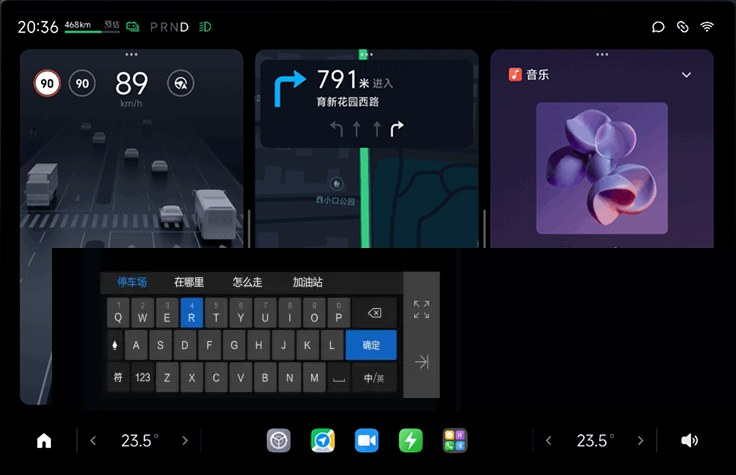
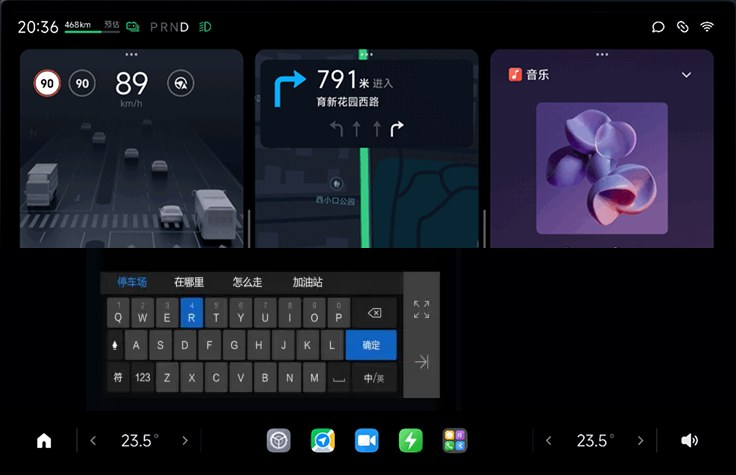
Swap two keyboard pictures, and say where every picture comes from (#36)
Yidan's two replacements. The three-height comparison is a tighter
capture than the wide one it replaces, and the keyboard she started
from is now the centred version with the candidate row, which is the
one she wanted shown.

A note near the top of the page says what all of it is: nothing here
is internal Xiaomi material, the photographs are Xiaomi's own
published images of the car, and everything else is a diagram she
drew to show how she worked. The note inside the keyboard section
keeps only what is specific to it.

The landing shot said "Where it landed", which claimed more than it
is. It is a Figma Make test at about the size the thing ships at, and
the caption now says so.

Added a before and after at the end of the section. The before is
real; the after is a slot, because the shipped screen has to come
from the car. A second slot holds the interaction running in the car.
Both say a screenshot is to be added, and a line underneath says
Xiaomi's system update is close and she will take them then. In the
pair, the slot takes the ratio of the picture beside it so the two
captions line up.

Both replacements arrived with transparent backgrounds and are
composited onto white, which is what turned an earlier wireframe into
a black bar.

Case prose is 1,554.

Claude-Session: https://claude.ai/code/session_01A2AqwaHUmSdqfKoAZn74z6

Changed region(s): [[0.0, 0.5011, 0.0938, 0.8547]]

diff --git a/work/xiaomi-auto.html b/work/xiaomi-auto.html
@@ -48,6 +48,10 @@
       <figcaption>The cabin. Xiaomi&rsquo;s own product photograph.</figcaption>
     </figure>
 
+    <div class="withheld">
+      <p>Nothing on this page is internal Xiaomi material. The photographs are Xiaomi&rsquo;s own published images of the car. Everything else is a diagram I drew to show how I worked.</p>
+    </div>
+
     <h2>What the car is trying to be</h2>
     <p>Xiaomi builds the car closer to an extension of the home than to transport. That claim is easy to make and hard to keep, and it gets decided in the moments when nobody is driving.</p>
     <p>A nap mode on the centre screen. A rear screen that runs the seat massage. A keyboard that floats above the screen and leaves what is underneath it alone. Each one is a moment where the car stops being a vehicle, and the interface has to behave like a room.</p>
@@ -131,7 +135,7 @@
     <p>Three companies make the keyboards I had to serve: the partner already in the car, a new one for the Chinese build, and Google for the English one. Each popped up at its own height, covered its own amount of the screen, and took the layout apart in its own way. They also disagree with each other on when AI triggers, how word suggestions arrive, and what the network prompts do. The person in the car only feels that typing is inconsistent.</p>
 
     <figure class="figure">
-      <img src="../assets/images/xiaomi-auto/keyboards-three.jpg" alt="Three screens side by side, each with a different vendor's keyboard open. Each one rises to a different height and covers a different amount of what is underneath. The content is desensitised." loading="lazy">
+      <img src="../assets/images/xiaomi-auto/keyboards-three.jpg" alt="Three car screens side by side, each with a different vendor's keyboard open, each rising to a different height over what is underneath. The content is desensitised." loading="lazy">
       <figcaption>The same screen, three vendors. Each keyboard takes a different amount of it away.</figcaption>
     </figure>
 
@@ -156,13 +160,8 @@
     </figure>
 
     <div class="withheld">
-      <p>From here to the end of this section, the pictures are reconstructions I drew afterwards to show the thinking. They are neither the finished design nor internal material. The shipped screens will come from the car itself.</p>
+      <p>The pictures from here are reconstructions I drew afterwards to show the thinking.</p>
     </div>
-
-    <figure class="figure">
-      <img src="../assets/images/xiaomi-auto/kb-before.jpg" alt="A car screen with driving, navigation and music cards across the top, and a small keyboard in the lower left corner covering part of the driving card" loading="lazy">
-      <figcaption>Where I started. It sits near the left hand, which is the right instinct and the wrong result: at that size you mis-tap, there is little to reach for, and nothing precise is possible while the car is moving.</figcaption>
-    </figure>
 
     <p>Two problems, then. What proportion fits the screen the car now ships, and what to do about the functions no version is going to drop.</p>
 
@@ -194,7 +193,7 @@
 
     <figure class="figure">
       <img src="../assets/images/xiaomi-auto/kb-after.jpg" alt="The same car screen with the rebuilt keyboard: a full-width floating block with a function row along the top, letters in the middle and a separate number pad on the right, with the driving cards still visible above it" loading="lazy">
-      <figcaption>Where it landed.</figcaption>
+      <figcaption>What I settled on, tested in Figma Make at about the size it ships at.</figcaption>
     </figure>
 
     <ol class="rules">
@@ -225,6 +224,31 @@
       </svg>
       <figcaption class="figure-note">The split. The rules were the design work; the permutations were typing.</figcaption>
     </figure>
+
+    <h3>Before, and what ships</h3>
+
+    <div class="cmp">
+      <figure>
+        <img src="../assets/images/xiaomi-auto/kb-before.jpg" alt="The car screen as it was: driving, navigation and music cards across the top, and a small centred keyboard below with a candidate word row above cramped keys" loading="lazy">
+        <figcaption><b>Before.</b> Hard to hit, hard to look at, and nothing precise is possible while the car is moving.</figcaption>
+      </figure>
+      <figure>
+        <div class="slot" data-slot="kb-shipped">
+          <span class="slot__k">Screenshot to be added</span>
+          <p class="slot__d">The keyboard as it ships, photographed from the car.</p>
+        </div>
+        <figcaption><b>After.</b> From the car itself.</figcaption>
+      </figure>
+    </div>
+
+    <figure class="figure">
+      <div class="slot slot--wide" data-slot="kb-in-use">
+        <span class="slot__k">Screenshot to be added</span>
+        <p class="slot__d">The interaction running in the car, with somebody typing.</p>
+      </div>
+    </figure>
+
+    <p class="figure-note">Xiaomi&rsquo;s system update is close. I will take both from the car as soon as it lands.</p>
 
     <div class="withheld">
       <p>The component library the keyboards were built against stays inside Xiaomi.</p>

diff --git a/assets/css/site.css b/assets/css/site.css
@@ -2754,3 +2754,7 @@ img.testimonial__avatar{object-fit:cover;}
   border:1px solid var(--border-hairline);
   background:#fff;border-radius:var(--radius-sm);
 }
+
+/* A slot standing in for the other half of a before-and-after takes the
+   ratio of the picture beside it, so the two captions line up. */
+.cmp .slot{aspect-ratio:736/475;padding:var(--space-4);}
